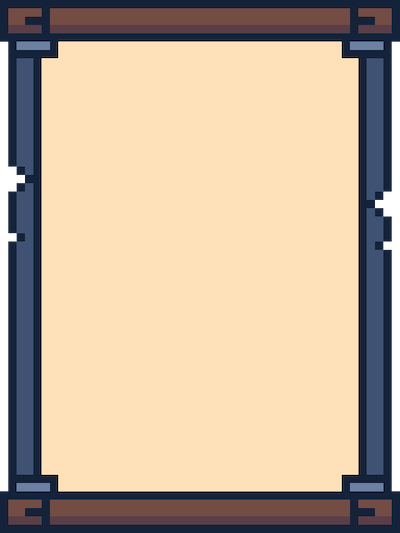
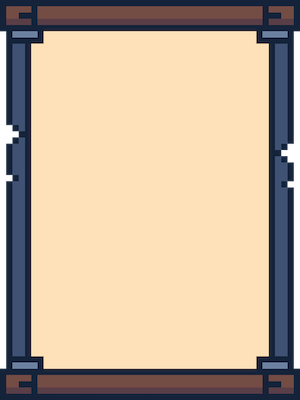
adding objects

Changed region(s): [[0.84, 0.09, 0.9, 0.93], [0.09, 0.06, 0.15, 0.93]]

diff --git a/index.js b/index.js
@@ -289,18 +289,54 @@ const testBoundary = new descriptiveObject({position: {
 const sign = new descriptiveObject({position: {
     x: 28 * 48 +offset.out.x + 5,
     y: 17 * 48 + offset.out.y -45
-}, width: 40, height: 2, text: "The Field of Flowers \u2740 \u273F"})
+}, width: 40, height: 2, text: "The Field of Flowers <br>\u2740 \u273F"})
 
+const fireplace = new descriptiveObject({position: {
+    x: 32 * 48 +offset.in.x,
+    y: 14 * 48 + offset.in.y 
+}, width: 80, height: 41, text: "A Cozy Fireplace <br> \u2766 "})
+
+const tv = new descriptiveObject({position: {
+    x: 33 * 48 +offset.in.x + 20,
+    y: 22 * 48 + offset.in.y +2
+}, width: 35, height: 1, text: "* click * <br> ... One Piece is playing! ...", speechBubble:true})
+const cooking = new descriptiveObject({position: {
+    x: 17 * 48 +offset.in.x,
+    y: 15 * 48 + offset.in.y
+}, width: 70, height: 5, text: "Should I have maccies or spagbol tonight?", speechBubble:true})
+
+const ramen = new descriptiveObject({position: {
+    x: 25 * 48 +offset.in.x,
+    y: 16 * 48 + offset.in.y +5
+}, width: 25, height: 1, text: "I love ramen!", speechBubble:true})
+
+const phone = new descriptiveObject({position: {
+    x: 24 * 48 +offset.in.x -3,
+    y: 16 * 48 + offset.in.y +5
+}, width: 20, height: 1, text: "Levypvy's LP grind never stops! <br> Currently: 1925 elo", speechBubble:true})
 const mailbox = new descriptiveObject({position: {
     x: 20 * 48 +offset.out.x + 10,
     y: 15 * 48 + offset.out.y 
 }, width: 30, height: 2, text: "S + L <br>\u2665"})
+const bed = new descriptiveObject({position: {
+    x: 21 * 48 +offset.in.x +20,
+    y: 25 * 48 + offset.in.y +20
+}, width: 40, height: 60, name:'bed', speechBubble: true, text: "I'm...so eepy..."})
+const notebook = new notebookObject({position: {
+    x: 25 * 48 +offset.in.x,
+    y: 21 * 48 + offset.in.y +4
+}, width: 25, height: 37, text: "Things I like about Levia <br> <br> - smart <br> - funny <br> - hot <br> - everything"})
+
+const book = new bookObject({position: {
+    x: 15 * 48 +offset.in.x + 5,
+    y: 19 * 48 + offset.in.y +38
+}, width: 30, height: 2, text: "Dear Levia, <br> you're the best. <br> I'll always be missing you <br> ~ soren \u2665"})
 
 const picture1 = new descriptiveObjectInside({
         position: {
             x: 26 * 48 +offset.in.x -3,
             y: 21 * 48 + offset.in.y +2
-        }, width: 31, height: 1, source: './img/art.png'
+        }, width: 31, height: 1, source: './img/art3.png'
      
 })
 
@@ -316,7 +352,7 @@ const picture3 = new descriptiveObjectInside({
     position: {
         x: 35 * 48 +offset.in.x -3,
         y: 22 * 48 + offset.in.y +2
-    }, width: 31, height: 1, source: './img/art3.png'
+    }, width: 31, height: 1, source: './img/art.png'
  
 })
 
@@ -327,6 +363,30 @@ const picture4 = new descriptiveObjectInside({
     }, width: 31, height: 1, source: './img/art4.png'
  
 })
+
+const picture5 = new descriptiveObjectInside({
+    position: {
+        x: 20 * 48 +offset.in.x -3,
+        y: 14 * 48 + offset.in.y +2
+    }, width: 80, height: 40, source: './img/art5.png', horizontal: true
+ 
+})
+const picture6 = new descriptiveObjectInside({
+    position: {
+        x: 21 * 48 +offset.in.x -3,
+        y: 21 * 48 + offset.in.y +2
+    }, width: 80, height: 1, source: './img/art6.png', horizontal: true
+ 
+})
+const bookshelf1 = new descriptiveObject({position: {
+    x: 17 * 48 +offset.in.x,
+    y: 20 * 48 + offset.in.y 
+}, width: 80, height: 2, text:"Textbooks on how to \n cope with being \n extremely attractive" })
+const bookshelf2 = new descriptiveObject({position: {
+    x: 13 * 48 +offset.in.x -3,
+    y: 20 * 48 + offset.in.y 
+}, width: 75, height: 2, text:"Virology textbooks" })
+
 const keys = {
     ArrowUp: {
         pressed: false
@@ -367,7 +427,7 @@ const doorToOutside = new Boundary({position: {
     
 }, width: 40, height: 40})
 const objects = [testBoundary, sign, mailbox]
-const insideObjects = [picture1, picture2, picture3, picture4]
+const insideObjects = [picture1, picture2, picture3, picture4, picture5, picture6, bookshelf1, bookshelf2, fireplace, tv, ramen,phone, notebook, cooking, book, bed]
 const movables = [background, ...boundaries, foreground, poke, ...oceans, insideBackground, ...indoorBoundaries, door, doorToOutside, openingDoor,...objects, doorBoundary, insideForeground, ...insideObjects]
 function rectangularCollision ({rectangle1, rectangle2}){
     return (
@@ -632,7 +692,7 @@ class outsideMap {
 
 const outside = new outsideMap()
 
-
+let isBed = false
 
 class insideMap {
     draw(){
@@ -677,14 +737,25 @@ class insideMap {
                         y: object.position.y +2
                     }}
                 })){
+                    if (object.name == 'bed'){
+                        isTextDisplayed = true
+                        isBed = true
+                        object.display()
+                     
+                    } else {
+                        moving = false
+                        isTextDisplayed = true
+                        isBed = false
+                        object.display()
+                        break
+                    }
                     
-                    moving = false
-                    isTextDisplayed = true
-                    object.display()
+                } else {
+                    isTextDisplayed = false
                 }
             }
            
-            if (moving) {
+            if (moving && !isBed) {
                 // Player is moving, reset the flag
                 isTextDisplayed = false;
             }
@@ -718,10 +789,20 @@ class insideMap {
                         y: object.position.y -2
                     }}
                 })){
+                    if (object.name == 'bed'){
+                        isTextDisplayed = true
+                        isBed = true
+                        object.display()
+                       
+                    } else {
+                        moving = false
+                        isTextDisplayed = true
+                        isBed = false
+                        object.display()
+                    break}
                     
-                    moving = false
-                    isTextDisplayed = true
-                    object.display()
+                }else {
+                    isTextDisplayed = false
                 }
             }
             if (rectangularCollision({
@@ -742,7 +823,7 @@ class insideMap {
                 })
                
             }
-            if (moving) {
+            if (moving && !isBed) {
                 // Player is moving, reset the flag
                 isTextDisplayed = false;
             }
@@ -776,12 +857,23 @@ class insideMap {
                     }}
                 })){
                     
-                    moving = false
-                    isTextDisplayed = true
-                    object.display()
+                    if (object.name == 'bed'){
+                        isTextDisplayed = true
+                        isBed = true
+                        object.display()
+                        
+                    } else {
+                        moving = false
+                        isTextDisplayed = true
+                        isBed = false
+                        object.display()
+                    break}
+                    
+                }else {
+                    isTextDisplayed = false
                 }
             }
-            if (moving) {
+            if (moving && !isBed) {
                 // Player is moving, reset the flag
                 isTextDisplayed = false;
             }
@@ -815,12 +907,23 @@ class insideMap {
                     }}
                 })){
                     
-                    moving = false
-                    isTextDisplayed = true
-                    object.display()
+                    if (object.name == 'bed'){
+                        isTextDisplayed = true
+                        isBed = true
+                        object.display()
+                        
+                    } else {
+                        moving = false
+                        isTextDisplayed = true
+                        isBed = false
+                        object.display()
+                    break}
+                    
+                }else {
+                    isTextDisplayed = false
                 }
             }
-            if (moving) {
+            if (moving && !isBed) {
                 // Player is moving, reset the flag
                 isTextDisplayed = false;
             }
@@ -832,11 +935,16 @@ class insideMap {
         if (!moving) {
             playerInside.frames.val = 0
         }
+        
         if (!isTextDisplayed) {
             document.querySelector('#textDiv').style.display = 'none';
             document.querySelector('#dialogueBox').innerHTML = "";
             document.querySelector('#largeBackground').style.display = 'none';
             document.querySelector('#pixeledImage').src = '';
+            document.querySelector('#notebook').style.display = 'none';
+            document.querySelector('#notebookDialogue').innerHTML = "";
+            document.querySelector('#book').style.display = 'none';
+            document.querySelector('#bookDialogue').innerHTML = '';
         }
 
     }

diff --git a/descriptiveObject.js b/descriptiveObject.js
@@ -1,18 +1,30 @@
 class descriptiveObject {
-    constructor({ position, width, height, text, source }) {
+    constructor({position, width, height, text, source, horizontal = false, speechBubble = false, book = false, name=''}) {
         this.position = position;
         this.width = width;
         this.height = height;
         this.text = text;
         this.source = source
+        this.horizontal = horizontal
+        this.speechBubble = speechBubble
+        this.book = book
+        this.name = name
     }
 
+
     draw() {
-        c.fillStyle = "black"
+        c.fillStyle = "rgba(255,0,0,0)"
         c.fillRect(this.position.x, this.position.y, this.width, this.height);
     }
 
     display() {
+        const img = document.querySelector('#textBox')
+        if (this.speechBubble){
+            img.src = './img/speechBubble.png'
+        } else {
+            img.src = './img/textBox.png'
+        }
+        
         document.querySelector('#textDiv').style.display = 'block';
         document.querySelector('#dialogueBox').innerHTML = this.text;
     }
@@ -21,13 +33,44 @@ class descriptiveObject {
 
 class descriptiveObjectInside extends descriptiveObject {
     draw() {
-        c.fillStyle = "blue"
+        c.fillStyle = "rgba(255,0,0,0)"
         c.fillRect(this.position.x, this.position.y, this.width, this.height);
     }
     display(){
         const img = document.querySelector('#pixeledImage')
         img.src = this.source 
-        document.querySelector('#largeBackground').style.display = 'block';
+        const img2 = document.querySelector('#largeBackground')
+        if (this.horizontal){
+            img2.style.backgroundImage = 'url(./img/largeframeTurned.png)'
+            img2.style.width = '533px'
+            img2.style.height = '300px'
+        } else {img2.style.backgroundImage = 'url(./img/largeFrame.png)'
+        img2.style.width = '300px'
+        img2.style.height = '400px'}
+        img2.style.display = 'block';
     }
     
+}
+
+class notebookObject extends descriptiveObject {
+    draw() {
+        c.fillStyle = "rgba(255,0,0,0)"
+        c.fillRect(this.position.x, this.position.y, this.width, this.height);
+    }
+    display() {
+        document.querySelector('#notebook').style.display = 'block';
+        document.querySelector('#notebookDialogue').innerHTML = this.text;
+    }
+}
+
+class bookObject extends descriptiveObject {
+    
+    draw() {
+        c.fillStyle = "rgba(255,0,0,0)"
+        c.fillRect(this.position.x, this.position.y, this.width, this.height);
+    }
+    display() {
+        document.querySelector('#book').style.display = 'block';
+        document.querySelector('#bookDialogue').innerHTML = this.text;
+    }
 }

diff --git a/index.html b/index.html
@@ -39,10 +39,25 @@
         </div>
     <canvas></canvas>
     <div id="textDiv" style="position: absolute; left: 50%; bottom: 4; transform: translate(-50%);  text-align: center; display: none;"> 
-        <img id="textBox" src="./img/textBox.png" alt="Image" >
-        <div  id="dialogueBox" style="position: absolute; left: 50%;  top: 50%; transform: translate(-50%, -50%);   text-align: center;font-size: 16px;">
+        <img id="textBox" src="" alt="Image" >
+        <div  id="dialogueBox" style="width: 100%; position: absolute; left: 50%;  top: 50%; transform: translate(-50%, -50%);   text-align: center;font-size: 16px;">
       
         </div>
+
+    </div>
+    <div id="notebook" style="position: absolute; top: 50%; left: 50%; transform: translate(-50%, -50%);  text-align: center; display: none;"> 
+        <img id="notebookPaper" src="./img/notebook.png" alt="Image" >
+        <div  id="notebookDialogue" style="width: 100%; position: absolute; left: 25;  top: 20;  font-size: 11px; text-align: left;">
+      
+        </div>
+
+    </div>
+    <div id="book" style="position: absolute; top: 50%; left: 50%; transform: translate(-50%, -50%);  text-align: center; display: none;"> 
+        <img id="bookPaper" src="./img/book.png" alt="Image" >
+        <div  id="bookDialogue" style="width: 25%; position: absolute; left: 175;  top: 15;  font-size: 6.5px; text-align: left;">
+      
+        </div>
+        
 
     </div>
 </div>
